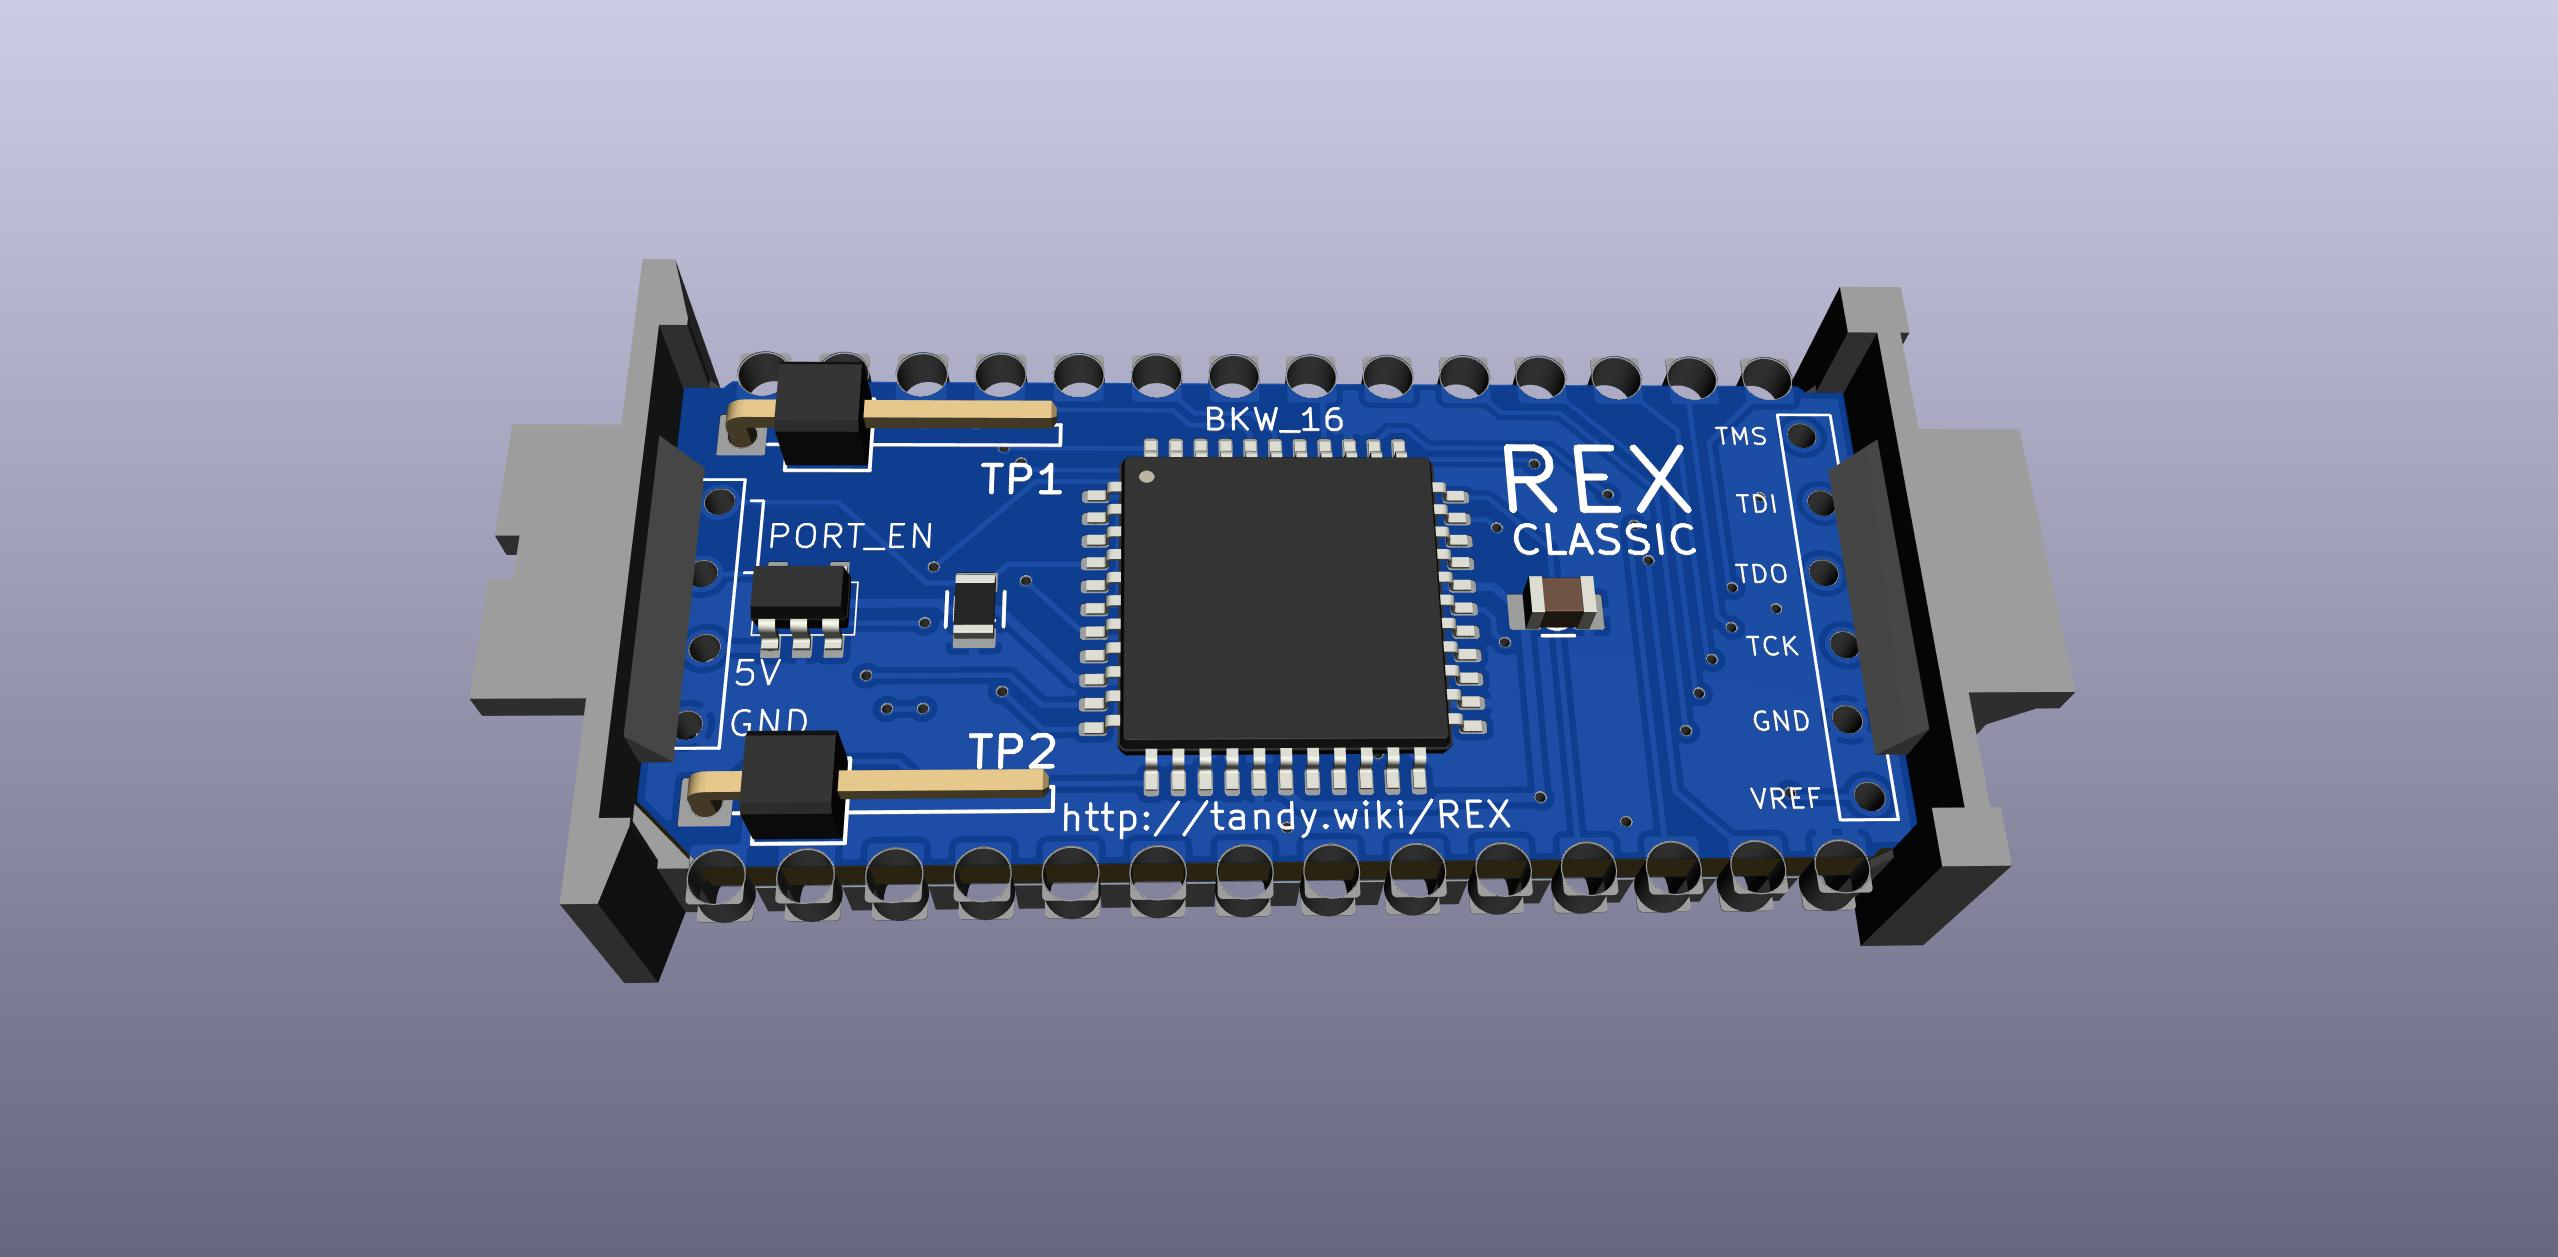
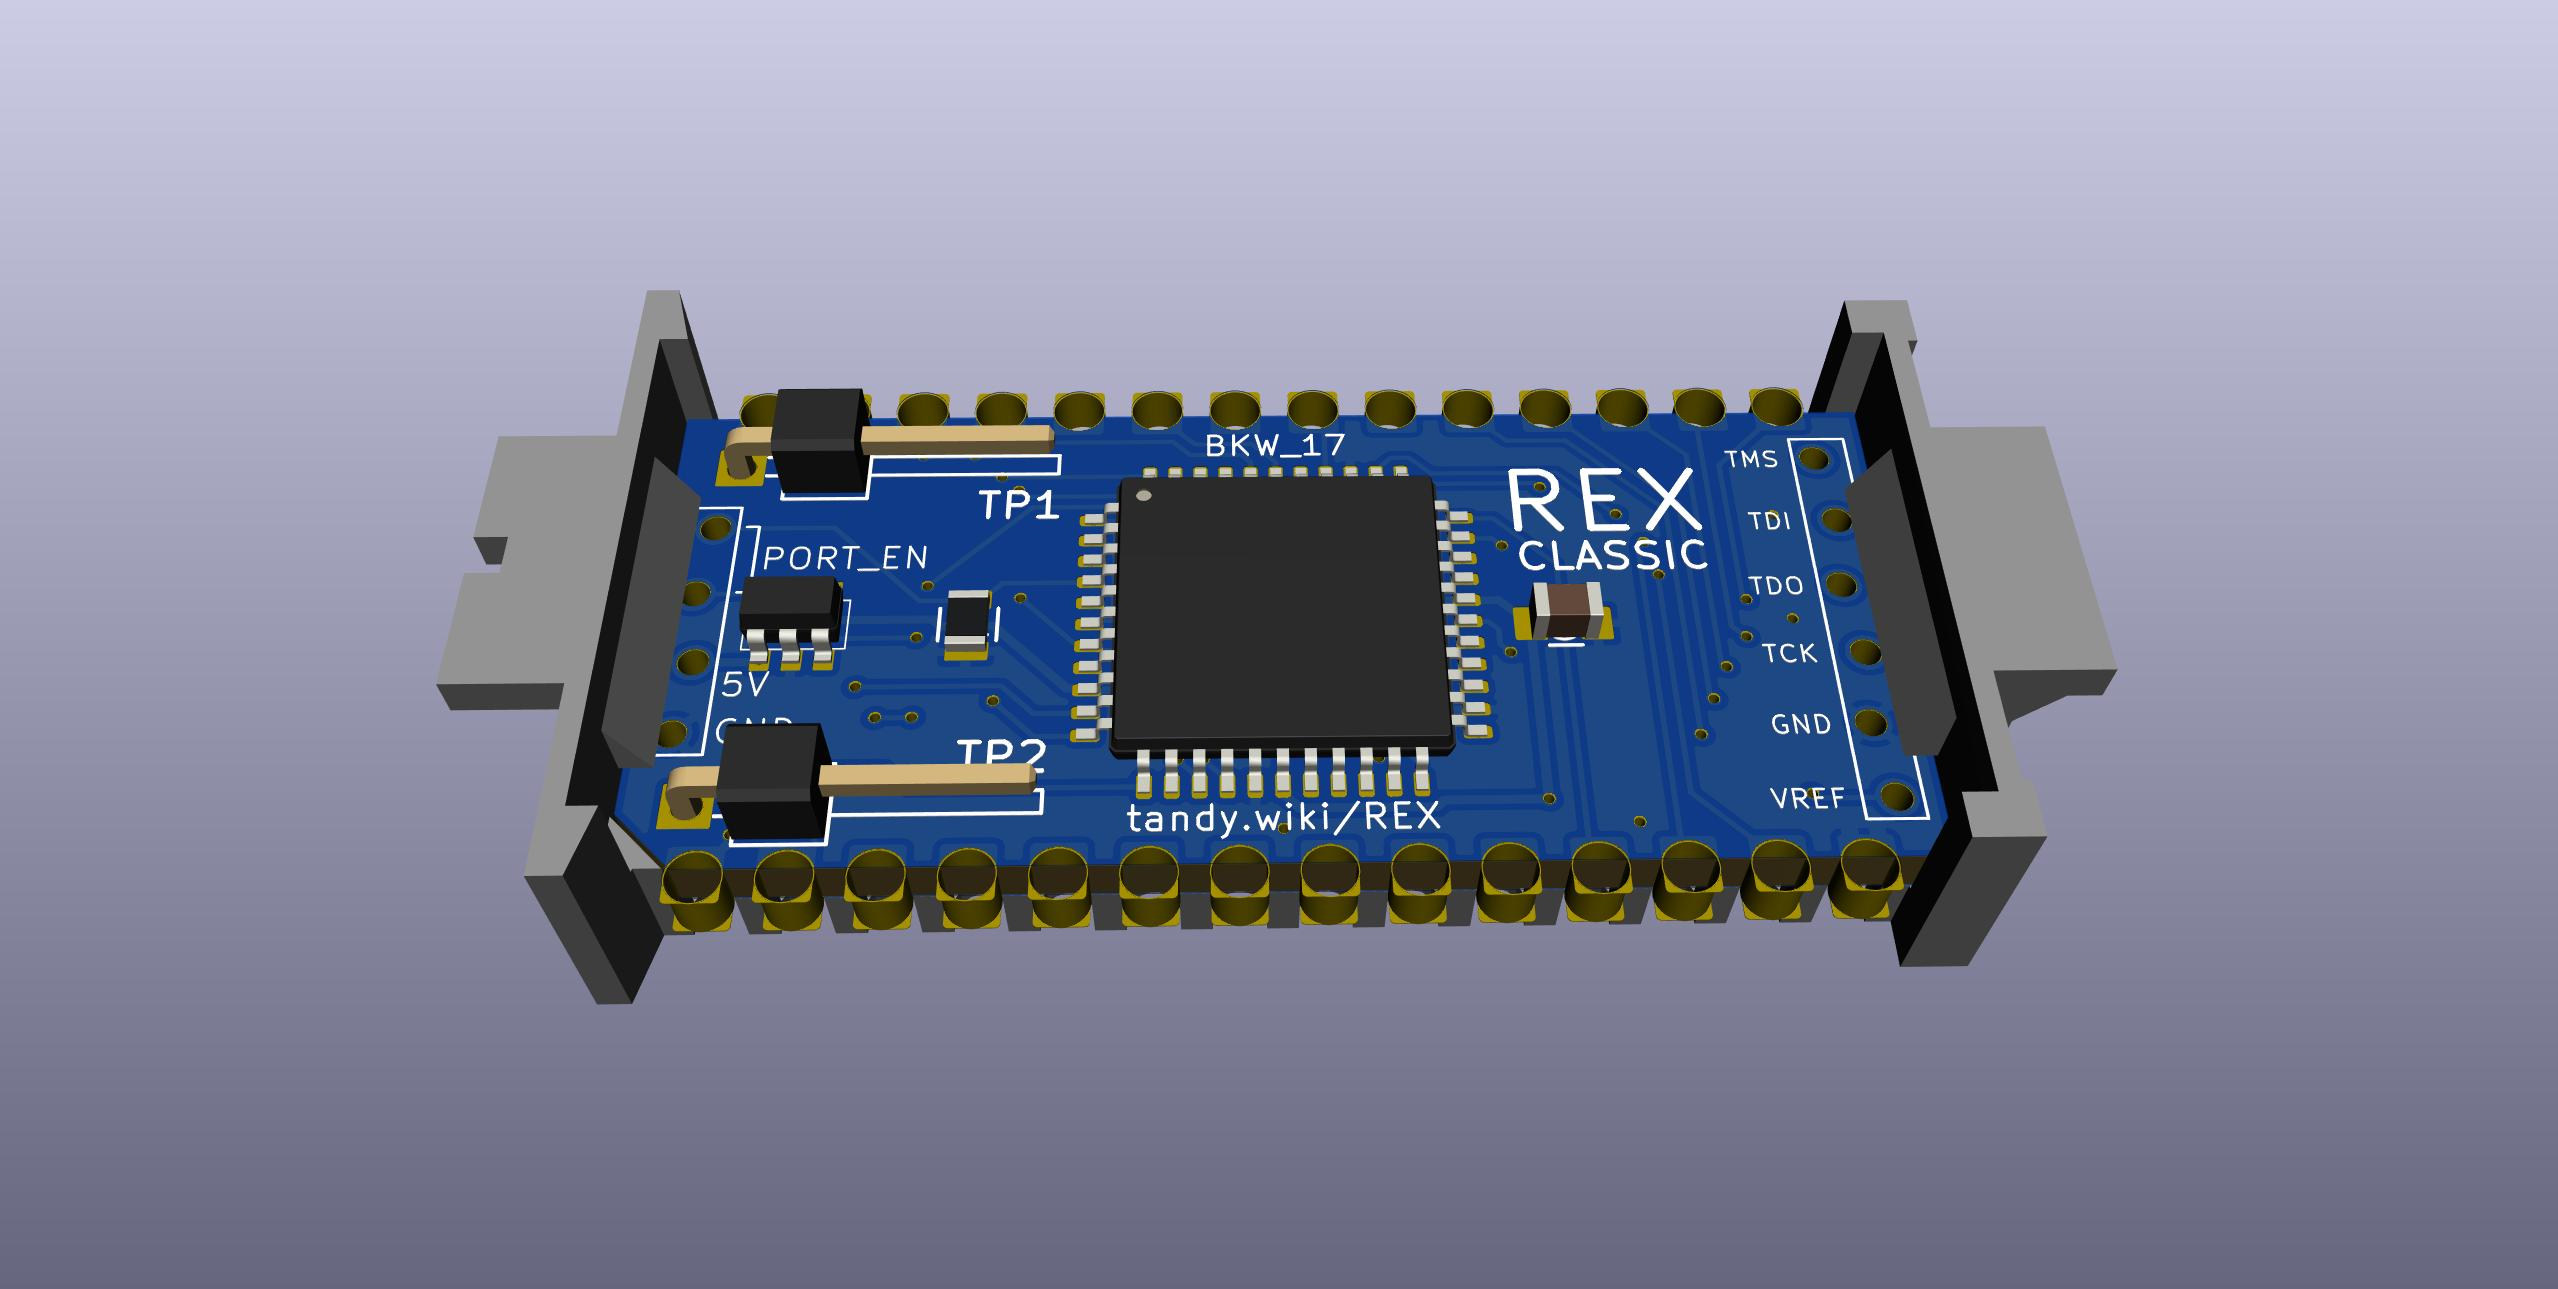
readme

Changed region(s): [[0.1544, 0.1862, 0.8339, 0.7757]]

diff --git a/README.md b/README.md
@@ -1,10 +1,9 @@
-# REX Classic
-REX Classic for TRS-80 Model 100, 102, 200<br>
-BKW PCB
+# REX Classic, BKW re-spin
+![](REX_Classic_bkw.jpg)
 
-### Original design, Steven Adolph
-http://bitchin100.com/wiki/index.php?title=REX<br>
-http://www.club100.org/memfiles/index.php?direction=0&order=&directory=Steve%20Adolph
-
-### Docs for this version
+### Directions
 http://tandy.wiki/REX
+
+### Original design by Steven Adolph
+http://bitchin100.com/wiki/index.php?title=REX  
+http://www.club100.org/memfiles/index.php?direction=0&order=&directory=Steve%20Adolph
